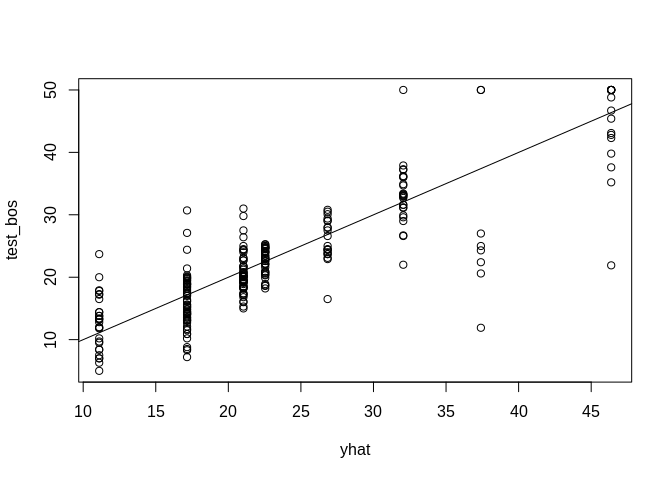
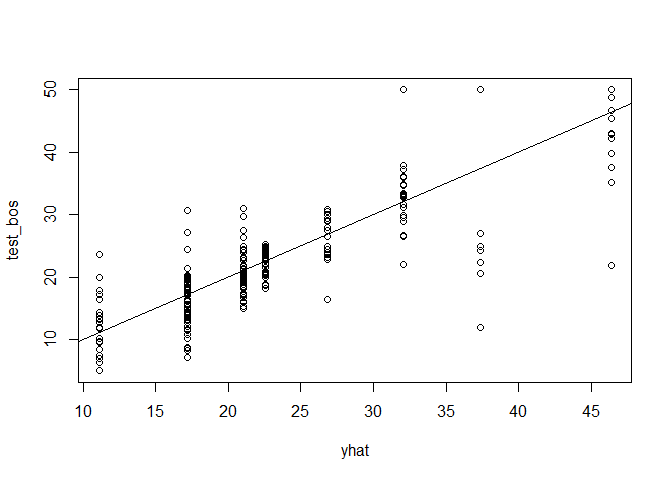
trees

diff --git a/ch8/ch8_labs.md b/ch8/ch8_labs.md
@@ -7,6 +7,7 @@ December 19, 2018
 library(tidyverse)
 library(tree)
 library(ISLR)
+library(randomForest)
 ```
 
 8.3.1
@@ -185,6 +186,8 @@ table(prune_pred, High_test)
 library(MASS)
 ```
 
+    ## Warning: package 'MASS' was built under R version 3.4.4
+
 ``` r
 set.seed(1)
 
@@ -241,3 +244,40 @@ mean((yhat-test_bos)^2)
 ```
 
     ## [1] 25.04559
+
+8.3.3
+-----
+
+``` r
+set.seed(1)
+
+bag_boston <- randomForest(medv~., Boston, subset=train, mtry=13, importance=T)
+bag_boston
+```
+
+    ## 
+    ## Call:
+    ##  randomForest(formula = medv ~ ., data = Boston, mtry = 13, importance = T,      subset = train) 
+    ##                Type of random forest: regression
+    ##                      Number of trees: 500
+    ## No. of variables tried at each split: 13
+    ## 
+    ##           Mean of squared residuals: 11.15723
+    ##                     % Var explained: 86.49
+
+Accuracy of model
+
+``` r
+yhat_bag <- predict(bag_boston, newdata=Boston[-train,])
+
+plot(yhat_bag, test_bos)
+abline(0,1)
+```
+
+![](ch8_labs_files/figure-markdown_github/unnamed-chunk-18-1.png)
+
+``` r
+mean((yhat_bag - test_bos)^2)
+```
+
+    ## [1] 13.50808
